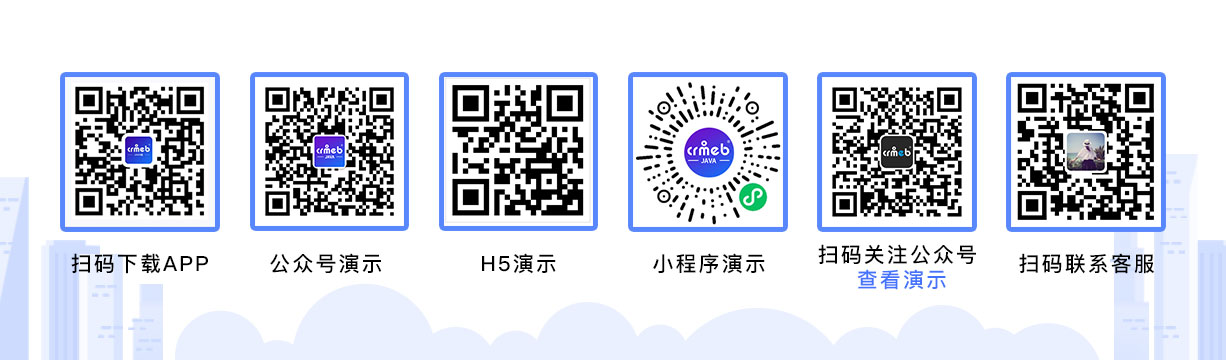
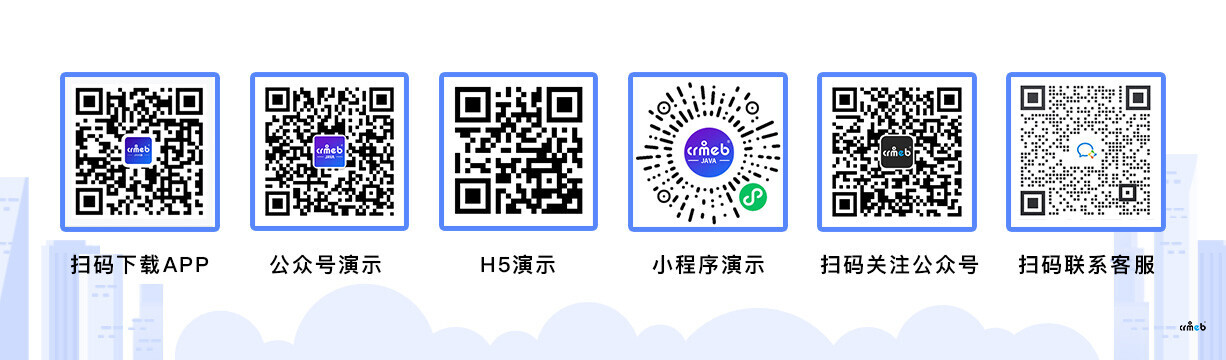
修正客服更新和新论坛地址

diff --git a/README.md b/README.md
@@ -151,8 +151,6 @@ WEB PC 项目运行环境
 
 https://help.crmeb.net/crmeb_java/2312166
 
-## 版本更新日志
-http://bbs.crmeb.net/thread-5725-1-1.html
 
 ## 内推荐项目
 ~~~
@@ -161,8 +159,6 @@ CRMEB知识付费项目：https://gitee.com/ZhongBangKeJi/crmeb_zzff_class
 CRMEB打通版：https://gitee.com/ZhongBangKeJi/CRMEB
 
 ~~~
-## 反馈交流
-技术交流社区：https://q.crmeb.net
 
 [CRMEB JAVA 技术交流QQ群 2群 482685880 🔥](<a target="_blank" href="https://qm.qq.com/cgi-bin/qm/qr?k=Ss382XU1MITXy9B-qx15GC3G7WVaImIG&jump_from=webapi"><img border="0" src="//pub.idqqimg.com/wpa/images/group.png" alt="CRMEB Java技术交流2群" title="CRMEB Java技术交流2群"> 点击添加群 482685880</a>)
 CRMEB JAVA 技术交流QQ群 1群 🈵
